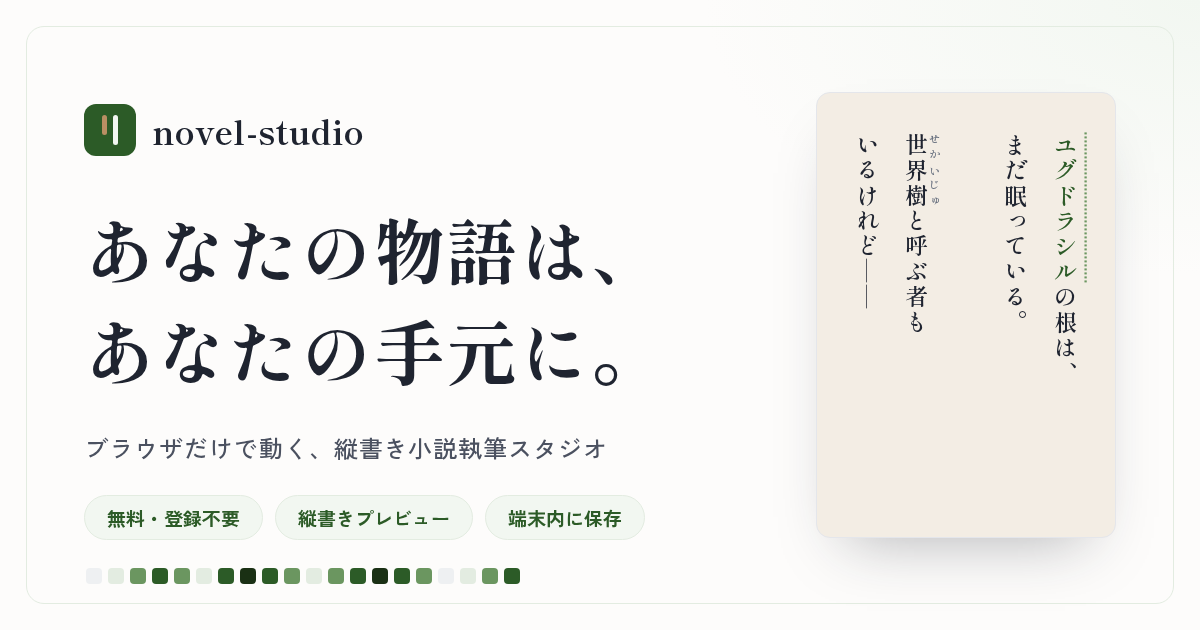
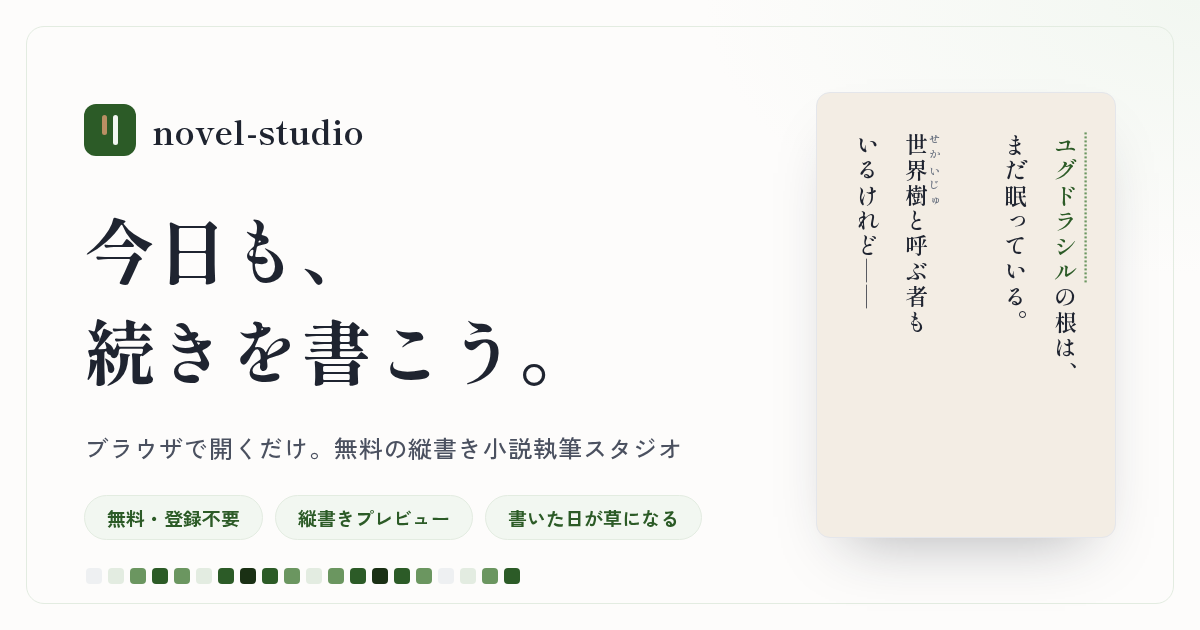
feat(lp): キャッチコピーを創作モチベーション軸に刷新
「原稿を預からない設計」（ローカルファースト思想の前面出し）は有料クラウド
バックアップと訴求が衝突し、利用者の関心とも遠いためトーンを転換：

- ヒーロー:「あなたの物語は、あなたの手元に。」→「今日も、続きを書こう。」
  伴走コピー（草が育つ・図鑑に積もる・最終話まで）へ
- Local-first セクション →「『書きつづける』を、しかけにする。」
  （草が育つ／世界が積もる／大胆に書き直せる）に差し替え
- 機能カードも「次の一行を呼ぶ」「発表する日までの距離」等、続ける動機の言葉に
- 料金の枕を「道具のせいで書けない日を、なくしたいから。」に。クラウドは
  データ保管でなく「どの端末でも続きから」という体験として訴求
- OGP 画像・メタ（LP/アプリ本体とも）を新コピーで再生成

Claude-Session: https://claude.ai/code/session_01P3bRJdo3svMRVPpbihVEe2

diff --git a/public/lp/index.html b/public/lp/index.html
@@ -3,8 +3,8 @@
 <head>
 <meta charset="utf-8">
 <meta name="viewport" content="width=device-width, initial-scale=1">
-<title>novel-studio — あなたの物語は、あなたの手元に。｜ローカルファーストの小説執筆スタジオ</title>
-<meta name="description" content="ブラウザだけで動く、無料の小説執筆スタジオ。登録不要・オフラインOK。縦書きライブプレビュー、キャラや用語をつなぐ図鑑、自動保存と版履歴、縦書きEPUB・なろう/カクヨム記法への書き出し。原稿はあなたの端末の中だけに。">
+<title>novel-studio — 今日も、続きを書こう。｜無料の縦書き小説執筆スタジオ</title>
+<meta name="description" content="開いた瞬間に書き始められる、無料の縦書き小説執筆スタジオ。書いた日は草が育ち、キャラと設定は図鑑に積もる。自動保存と版履歴で大胆に書き直せる。なろう・カクヨム・縦書きEPUBへ書き出しも。">
 <link rel="canonical" href="https://novel-studio-b2m.pages.dev/lp/">
 <meta name="theme-color" content="#2c5b27">
 <link rel="icon" href="/favicon.svg" type="image/svg+xml">
@@ -12,16 +12,16 @@
 <!-- OGP -->
 <meta property="og:type" content="website">
 <meta property="og:site_name" content="novel-studio">
-<meta property="og:title" content="novel-studio — あなたの物語は、あなたの手元に。">
-<meta property="og:description" content="ブラウザだけで動く、無料の小説執筆スタジオ。登録不要・縦書きプレビュー・図鑑・自動保存。原稿は端末の中だけに保存され、誰のサーバーにも送られません。">
+<meta property="og:title" content="novel-studio — 今日も、続きを書こう。">
+<meta property="og:description" content="開いた瞬間に書き始められる、無料の縦書き小説執筆スタジオ。書いた日は草が育ち、世界は図鑑に積もる。最終話まで、伴走します。">
 <meta property="og:url" content="https://novel-studio-b2m.pages.dev/lp/">
 <meta property="og:image" content="https://novel-studio-b2m.pages.dev/lp/ogp.png">
 <meta property="og:image:width" content="1200">
 <meta property="og:image:height" content="630">
 <meta property="og:locale" content="ja_JP">
 <meta name="twitter:card" content="summary_large_image">
-<meta name="twitter:title" content="novel-studio — あなたの物語は、あなたの手元に。">
-<meta name="twitter:description" content="ブラウザだけで動く、無料の小説執筆スタジオ。登録不要・縦書きプレビュー・図鑑・自動保存。原稿は端末の中だけに。">
+<meta name="twitter:title" content="novel-studio — 今日も、続きを書こう。">
+<meta name="twitter:description" content="開いた瞬間に書き始められる、無料の縦書き小説執筆スタジオ。書いた日は草が育ち、世界は図鑑に積もる。">
 <meta name="twitter:image" content="https://novel-studio-b2m.pages.dev/lp/ogp.png">
 
 <link rel="preconnect" href="https://fonts.googleapis.com">
@@ -185,7 +185,7 @@
     <nav class="nav-links">
       <a href="#features">できること</a>
       <a href="#tate">縦書き</a>
-      <a href="#trust">データの話</a>
+      <a href="#keep">つづく仕組み</a>
       <a href="#plans">料金</a>
       <a class="btn" href="/">無料で始める</a>
     </nav>
@@ -198,11 +198,12 @@
   <div class="hero">
     <div class="wrap hero-grid">
       <div>
-        <span class="kicker">ブラウザだけで動く、ローカルファーストの小説執筆スタジオ</span>
-        <h1>あなたの物語は、<br>あなたの手元に。</h1>
+        <span class="kicker">ブラウザで開くだけ。無料の縦書き小説執筆スタジオ</span>
+        <h1>今日も、<br>続きを書こう。</h1>
         <p class="lead">
-          登録もインストールも不要。開いたその瞬間から、縦書きで書き始められます。
-          原稿はあなたの端末の中だけに保存され、誰のサーバーにも送られません。
+          登録もインストールも不要。開いた瞬間、原稿があなたを待っています。
+          書いた日は「草」が育ち、キャラと設定は「図鑑」に積もる。
+          ——最終話のその一行まで、novel-studio が伴走します。
         </p>
         <div class="cta-row">
           <a class="btn big" href="/">今すぐ書き始める — 無料</a>
@@ -246,32 +247,32 @@
         <div class="card">
           <div class="icon">縦</div>
           <h3>縦書きライブプレビュー</h3>
-          <p>ルビ・傍点・縦中横も、書いた先から本の組みで確認。横書きにもワンタップで切り替えられます。</p>
+          <p>書いた先から、本の姿になる。ルビも傍点も原稿のまま。「作品になっていく」手応えが、次の一行を呼びます。</p>
         </div>
         <div class="card">
           <div class="icon">鑑</div>
-          <h3>図鑑 — 世界の辞書</h3>
-          <p>キャラ・地名・用語を <code>[[名前]]</code> でつなぐ。@ でさっと呼び出し、改名しても別名でも参照は壊れません。</p>
+          <h3>図鑑 — 世界が積もる</h3>
+          <p>キャラ・地名・用語を <code>[[名前]]</code> でつなぐ。設定が積み上がるほど、物語はひとりでに転がりはじめる。</p>
         </div>
         <div class="card">
           <div class="icon">守</div>
           <h3>ローカル・セーフティネット</h3>
-          <p>打った文字は自動保存。保存のたびに版が積まれ、いつでも過去の原稿へ戻れます。</p>
+          <p>打った文字は自動保存、版履歴でいつでも巻き戻し。「消えたらどうしよう」から解放されて、書くことだけに。</p>
         </div>
         <div class="card">
           <div class="icon">出</div>
           <h3>ワンクリック書き出し</h3>
-          <p>縦書きEPUB、小説家になろう・カクヨム記法へそのまま出力。投稿サイトへの入稿がすぐ終わります。</p>
+          <p>縦書きEPUB、小説家になろう・カクヨム記法へそのまま出力。「発表する日」までの距離が、ぐっと縮まります。</p>
         </div>
         <div class="card">
           <div class="icon">草</div>
           <h3>執筆の記録</h3>
-          <p>書いた日が「草」になって育ちます。連続執筆日数と文字数が、明日のあなたを机に向かわせる。</p>
+          <p>書いた日が「草」になって育つ。連続日数が伸びるほど、途切れさせたくなくなる——それが狙いです。</p>
         </div>
         <div class="card">
           <div class="icon">替</div>
           <h3>一括置換と検索</h3>
-          <p>キャラ名の変更も、作品探しも、ひと呼吸で。長編の育て直しが怖くなくなります。</p>
+          <p>キャラ名の変更も、作品探しも、ひと呼吸。長編を育て直す勇気をくれます。</p>
         </div>
       </div>
 
@@ -308,26 +309,26 @@
     </div>
   </section>
 
-  <!-- ================= データの話 ================= -->
-  <section id="trust" class="trust">
+  <!-- ================= つづく仕組み ================= -->
+  <section id="keep" class="trust">
     <div class="wrap">
       <div class="sec-head">
-        <span class="en">Local-first</span>
-        <h2>原稿を、預からないという設計。</h2>
-        <p>クラウドが前提の時代に、あえて「あなたの端末が正本」を選びました。</p>
+        <span class="en">Keep going</span>
+        <h2>「書きつづける」を、しかけにする。</h2>
+        <p>物語を完結させるのは、才能より仕組み。毎日机に向かいたくなる、小さな理由を用意しました。</p>
       </div>
       <div class="trust-grid">
         <div class="trust-card">
-          <h3>端末の中だけに保存</h3>
-          <p>原稿はブラウザのローカルストレージ（IndexedDB）に保存。ネットが切れても、圏外でも、いつも通り書けます。</p>
+          <h3>草が、育つ</h3>
+          <p>書いた日がカレンダーに色づいていく。連続記録が途切れるのは、ちょっと悔しい。だから今日もまず一行、書いてしまう。</p>
         </div>
         <div class="trust-card">
-          <h3>いつでも持ち出せる</h3>
-          <p>全作品をファイルにバックアップ／取り込み。EPUB・テキストにも書き出せるので、囲い込みはありません。</p>
+          <h3>世界が、積もる</h3>
+          <p>図鑑にキャラと設定が増えていく。本文の [[名前]] と繋がった世界の厚みが、次の展開を教えてくれる。</p>
         </div>
         <div class="trust-card">
-          <h3>望むときだけクラウドへ</h3>
-          <p>端末をまたぎたくなったら、有料プランの暗号化クラウドバックアップを。AI に相談したい人には読み取り専用の安全な接続（MCP）も。</p>
+          <h3>大胆に、書き直せる</h3>
+          <p>自動保存と版履歴が、いつでも巻き戻せる安心をくれる。「昨日の方がよかった」を恐れずに、思い切って直せる。</p>
         </div>
       </div>
     </div>
@@ -339,7 +340,7 @@
       <div class="sec-head">
         <span class="en">Pricing</span>
         <h2>書くことは、ぜんぶ無料。</h2>
-        <p>クラウドの安心だけ、必要な人に。</p>
+        <p>道具のせいで書けない日を、なくしたいから。</p>
       </div>
       <div class="plans">
         <div class="plan free">
@@ -359,9 +360,9 @@
           <div class="price">有料プラン<small>（アプリ内でご案内）</small></div>
           <ul>
             <li>フリーの全機能</li>
-            <li>暗号化クラウドバックアップ＆復元</li>
-            <li>複数端末での執筆に安心を</li>
-            <li>AI・MCP 接続（読み取り専用トークン）</li>
+            <li>クラウドバックアップ＆復元（暗号化）</li>
+            <li>自宅のPCでも、出先のタブレットでも続きから</li>
+            <li>AI に原稿を読ませて相談（読み取り専用・MCP）</li>
           </ul>
           <a class="btn ghost" href="/">アプリで詳しく見る</a>
         </div>
@@ -414,7 +415,7 @@
 <footer>
   <div class="wrap foot">
     <span class="serif" style="color:var(--gray-600);">novel-studio</span>
-    <span>あなたの物語は、あなたの手元に。</span>
+    <span>今日も、続きを書こう。</span>
   </div>
 </footer>
 

diff --git a/index.html b/index.html
@@ -3,10 +3,10 @@
   <head>
     <meta charset="UTF-8" />
     <meta name="viewport" content="width=device-width, initial-scale=1.0" />
-    <title>novel-studio — あなたの物語は、あなたの手元に。</title>
+    <title>novel-studio — 今日も、続きを書こう。</title>
     <meta
       name="description"
-      content="ブラウザだけで動く、無料の小説執筆スタジオ。登録不要・オフラインOK。縦書きライブプレビュー、図鑑、自動保存と版履歴、縦書きEPUB・なろう/カクヨム記法への書き出し。原稿はあなたの端末の中だけに。"
+      content="開いた瞬間に書き始められる、無料の縦書き小説執筆スタジオ。書いた日は草が育ち、キャラと設定は図鑑に積もる。なろう・カクヨム・縦書きEPUBへ書き出しも。"
     />
     <meta name="theme-color" content="#2c5b27" />
     <link rel="icon" href="/favicon.svg" type="image/svg+xml" />
@@ -14,10 +14,10 @@
     <!-- OGP（SNS 共有時のカード。画像は LP と共通） -->
     <meta property="og:type" content="website" />
     <meta property="og:site_name" content="novel-studio" />
-    <meta property="og:title" content="novel-studio — あなたの物語は、あなたの手元に。" />
+    <meta property="og:title" content="novel-studio — 今日も、続きを書こう。" />
     <meta
       property="og:description"
-      content="ブラウザだけで動く、無料の小説執筆スタジオ。登録不要・縦書きプレビュー・図鑑・自動保存。原稿は端末の中だけに保存され、誰のサーバーにも送られません。"
+      content="開いた瞬間に書き始められる、無料の縦書き小説執筆スタジオ。書いた日は草が育ち、世界は図鑑に積もる。最終話まで、伴走します。"
     />
     <meta property="og:url" content="https://novel-studio-b2m.pages.dev/" />
     <meta property="og:image" content="https://novel-studio-b2m.pages.dev/lp/ogp.png" />
@@ -25,10 +25,10 @@
     <meta property="og:image:height" content="630" />
     <meta property="og:locale" content="ja_JP" />
     <meta name="twitter:card" content="summary_large_image" />
-    <meta name="twitter:title" content="novel-studio — あなたの物語は、あなたの手元に。" />
+    <meta name="twitter:title" content="novel-studio — 今日も、続きを書こう。" />
     <meta
       name="twitter:description"
-      content="ブラウザだけで動く、無料の小説執筆スタジオ。登録不要・縦書きプレビュー・図鑑・自動保存。原稿は端末の中だけに。"
+      content="開いた瞬間に書き始められる、無料の縦書き小説執筆スタジオ。書いた日は草が育ち、世界は図鑑に積もる。"
     />
     <meta name="twitter:image" content="https://novel-studio-b2m.pages.dev/lp/ogp.png" />
   </head>
